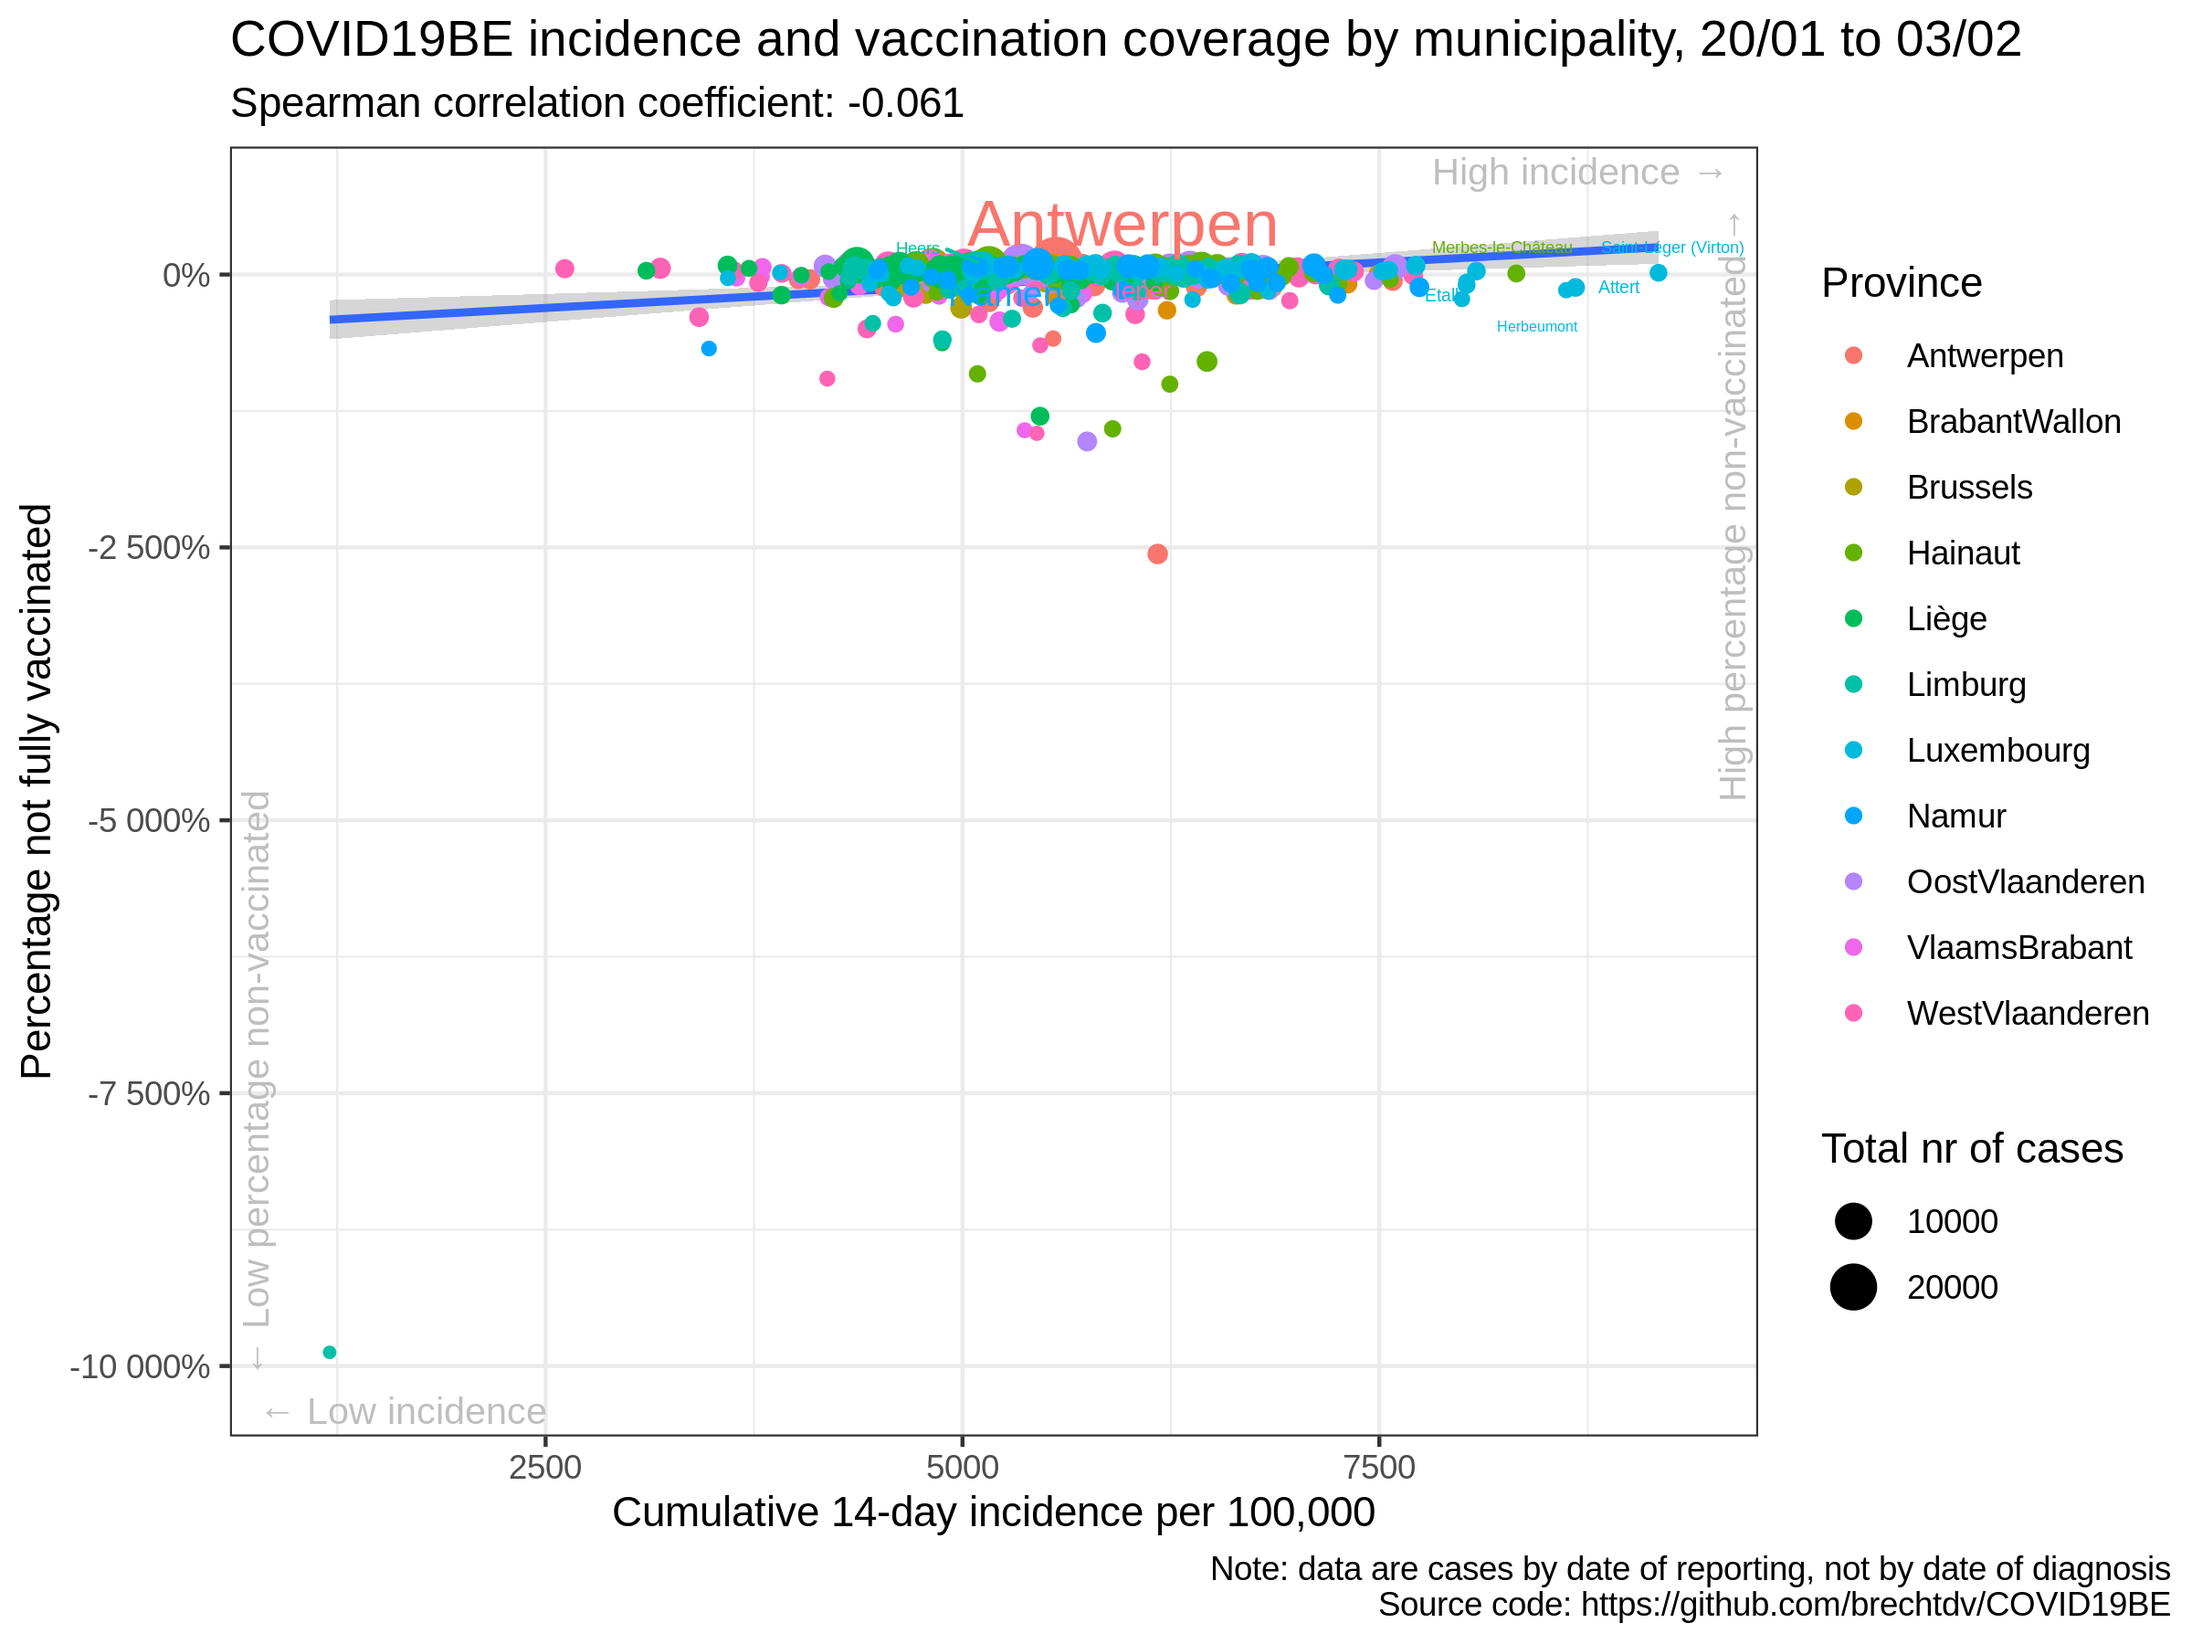
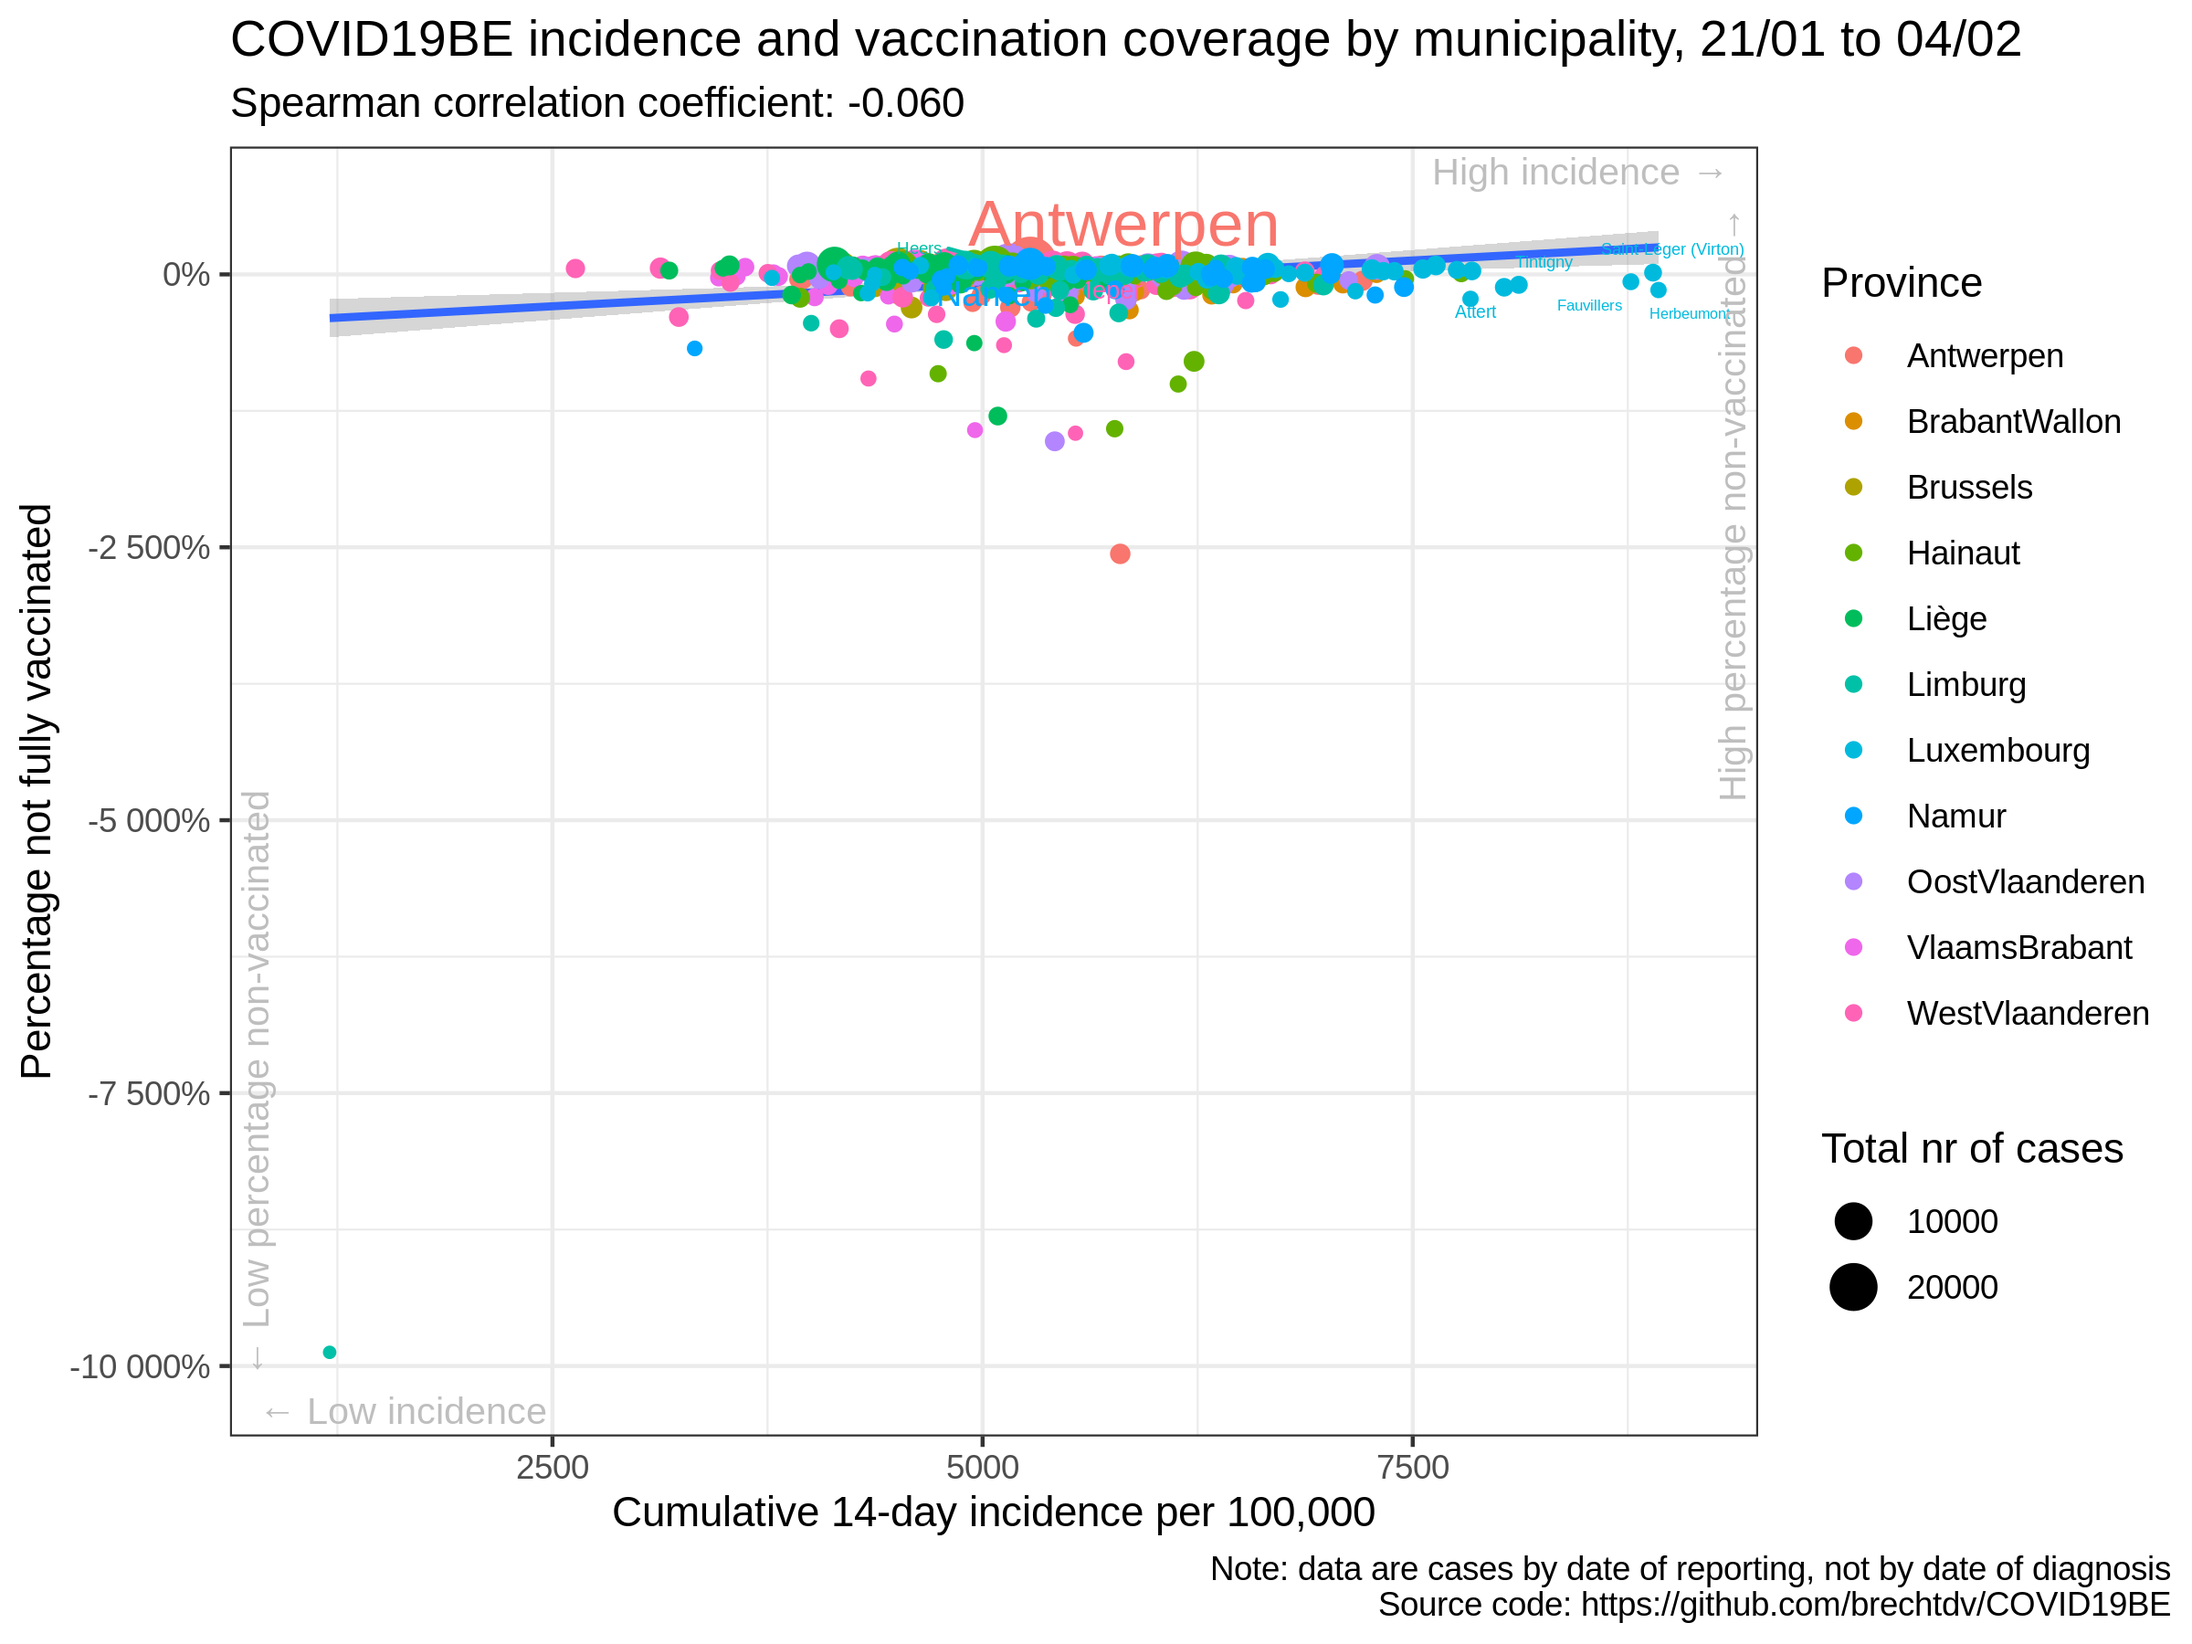
update situation

diff --git a/vaccination/README.md b/vaccination/README.md
@@ -17,35 +17,35 @@
 
 |                | estimate.rho | p.value |
 | :------------- | -----------: | ------: |
-| Antwerpen      |      \-0.004 |   0.975 |
-| BrabantWallon  |      \-0.483 |   0.012 |
-| Brussels       |      \-0.030 |   0.905 |
-| Hainaut        |      \-0.172 |   0.157 |
-| Liège          |      \-0.202 |   0.065 |
-| Limburg        |        0.079 |   0.617 |
-| Luxembourg     |      \-0.130 |   0.401 |
-| Namur          |      \-0.057 |   0.735 |
-| OostVlaanderen |      \-0.167 |   0.201 |
-| VlaamsBrabant  |      \-0.044 |   0.725 |
-| WestVlaanderen |        0.071 |   0.576 |
-| Belgium        |      \-0.061 |   0.144 |
+| Antwerpen      |      \-0.054 |   0.657 |
+| BrabantWallon  |      \-0.449 |   0.020 |
+| Brussels       |      \-0.107 |   0.662 |
+| Hainaut        |      \-0.171 |   0.161 |
+| Liège          |      \-0.220 |   0.045 |
+| Limburg        |        0.055 |   0.727 |
+| Luxembourg     |      \-0.182 |   0.237 |
+| Namur          |      \-0.054 |   0.750 |
+| OostVlaanderen |      \-0.147 |   0.260 |
+| VlaamsBrabant  |      \-0.045 |   0.724 |
+| WestVlaanderen |        0.070 |   0.582 |
+| Belgium        |      \-0.060 |   0.151 |
 
 ### Correlation cumulative incidence vs booster rate
 
 |                | estimate.rho | p.value |
 | :------------- | -----------: | ------: |
-| Antwerpen      |      \-0.001 |   0.992 |
-| BrabantWallon  |      \-0.488 |   0.011 |
-| Brussels       |      \-0.061 |   0.804 |
-| Hainaut        |      \-0.172 |   0.158 |
-| Liège          |      \-0.214 |   0.051 |
-| Limburg        |        0.079 |   0.618 |
-| Luxembourg     |      \-0.142 |   0.357 |
-| Namur          |      \-0.046 |   0.785 |
-| OostVlaanderen |      \-0.168 |   0.200 |
-| VlaamsBrabant  |      \-0.070 |   0.579 |
-| WestVlaanderen |        0.078 |   0.539 |
-| Belgium        |      \-0.062 |   0.136 |
+| Antwerpen      |      \-0.050 |   0.684 |
+| BrabantWallon  |      \-0.453 |   0.019 |
+| Brussels       |      \-0.140 |   0.565 |
+| Hainaut        |      \-0.171 |   0.159 |
+| Liège          |      \-0.232 |   0.034 |
+| Limburg        |        0.053 |   0.739 |
+| Luxembourg     |      \-0.193 |   0.209 |
+| Namur          |      \-0.041 |   0.807 |
+| OostVlaanderen |      \-0.147 |   0.261 |
+| VlaamsBrabant  |      \-0.074 |   0.556 |
+| WestVlaanderen |        0.079 |   0.533 |
+| Belgium        |      \-0.057 |   0.173 |
 
 ### Data source
 
